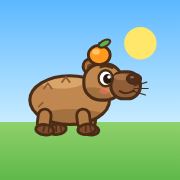
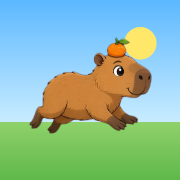
Versión 0.4: personajes con ilustraciones nuevas (capibara, gallina y gallo), íconos con el nuevo capibara y pradera más llena en vertical

Changed region(s): [[0.1389, 0.1944, 0.8611, 0.7778]]

diff --git a/game.js b/game.js
@@ -1,8 +1,12 @@
 // Capi Corre — juego de carreras infinito con un capibara
 (function(){
 'use strict';
-const VERSION='0.3';
-const HERO_S=1.18;
+const VERSION='0.4';
+const HERO_S=1;
+// sprites ilustrados (px por unidad de juego)
+const SPR={},SPR_PX={capi:3.4,gallina:4.3,gallo:4.1};
+['capi_run1','capi_run2','capi_duck','capi_hurt','gallina_run','gallina_flap','gallo_run','gallo_flap'].forEach(n=>{const i=new Image();i.onload=()=>{SPR[n]=i;if(window.__onSpr)window.__onSpr();};i.src='img/'+n+'.png?v=6';});
+function sprDim(n,id){const i=SPR[n],k=SPR_PX[id];return i?{w:i.width/k,h:i.height/k}:{w:90,h:75};}
 const $=id=>document.getElementById(id);
 const cv=$('c'),ctx=cv.getContext('2d');
 const LS={get(k,d){try{const v=localStorage.getItem('capi_'+k);return v===null?d:JSON.parse(v)}catch(e){return d}},set(k,v){try{localStorage.setItem('capi_'+k,JSON.stringify(v))}catch(e){}}};
@@ -21,7 +25,7 @@ function resize(){
  cv.width=Math.round(W*dpr);cv.height=Math.round(H*dpr);
  S=H/360; if(W/S<560) S=W/560;
  VW=W/S;VH=H/S;GY=VH-62;
- if(H>W){S=W/440;VW=W/S;VH=H/S;GY=Math.round(VH*0.62);}
+ if(H>W){S=W/440;VW=W/S;VH=H/S;GY=Math.round(VH*0.70);}
  checkRotate();
 }
 addEventListener('resize',resize);
@@ -125,6 +129,7 @@ $('resumeBtn').onclick=()=>{sfx.click();state='play';show(null);last=performance
 $('pauseBtn').onclick=e=>{e.stopPropagation();pause()};
 $('shopBtn').onclick=()=>{audio();sfx.click();buildShop();show('shop')};
 $('backBtn').onclick=()=>{sfx.click();refreshTitle();show('title')};
+window.__onSpr=()=>{if(!$('shop').classList.contains('hidden'))buildShop();};
 function buildShop(){
  $('sCoins').textContent=save.coins;
  const box=$('chars');box.innerHTML='';
@@ -141,7 +146,7 @@ function buildShop(){
    if(b.disabled)b.textContent='🪙 '+c.price+' (faltan '+(c.price-save.coins)+')';
    b.onclick=()=>{if(save.coins>=c.price){save.coins-=c.price;save.owned.push(c.id);save.sel=c.id;persist();sfx.record();buildShop();}};}
   d.appendChild(b);box.appendChild(d);
-  const g=pc.getContext('2d');g.scale(2,2);g.translate(c.id==='capi'?48:55,76);const k=c.id==='capi'?1.15:1.05;g.scale(k,k);
+  const g=pc.getContext('2d');g.scale(2,2);g.translate(55,78);const k=c.id==='capi'?0.98:1.04;g.scale(k,k);
   drawHero(g,c.id,{y:0,vy:0,ground:true,duck:false,squash:0,anim:0.3,orangeY:0,flapT:0,glide:false,rot:0});
   if(!owned){g.setTransform(1,0,0,1,0,0);g.fillStyle='rgba(255,255,255,.55)';g.fillRect(0,0,220,160);g.font='60px sans-serif';g.textAlign='center';g.fillText('🔒',110,105);}
  });
@@ -187,12 +192,15 @@ function puff(x,y,n,col){for(let i=0;i<n;i++)parts.push({x,y,vx:R(-90,30),vy:R(-
 
 // ---------- actualización ----------
 function hb(){const b=hb0(),k=HERO_S;return{x:p.x+(b.x-p.x)*k,y:GY+p.y+(b.y-GY-p.y)*k,w:b.w*k,h:b.h*k};}
-function hb0(){ // caja de choque del jugador (sin escala)
- const ch=save.sel;
- if(p.duck&&p.ground)return ch==='capi'?{x:p.x-30,y:GY+p.y-26,w:68,h:24}:ch==='gallo'?{x:p.x-14,y:GY+p.y-36,w:32,h:34}:{x:p.x-14,y:GY+p.y-26,w:32,h:24};
- if(ch==='gallina')return{x:p.x-14,y:GY+p.y-42,w:30,h:40};
- if(ch==='gallo')return{x:p.x-14,y:GY+p.y-52,w:34,h:50};
- return{x:p.x-30,y:GY+p.y-44,w:66,h:40};
+function hb0(){ // caja de choque ajustada a cada sprite
+ const ch=save.sel,X=p.x,Y=GY+p.y;
+ if(ch==='capi'){
+  if(p.duck&&p.ground){const d=sprDim('capi_duck','capi');return{x:X-d.w*0.4,y:Y-d.h*0.62,w:d.w*0.8,h:d.h*0.6};}
+  const d=sprDim('capi_run1','capi');return{x:X-d.w*0.36,y:Y-d.h*0.76,w:d.w*0.74,h:d.h*0.72};
+ }
+ const d=sprDim(ch+'_run',ch);
+ if(p.duck&&p.ground)return{x:X-d.w*0.28,y:Y-d.h*0.5,w:d.w*0.56,h:d.h*0.48};
+ return{x:X-d.w*0.28,y:Y-d.h*0.84,w:d.w*0.56,h:d.h*0.8};
 }
 function ov(a,b){return a.x<b.x+b.w&&a.x+a.w>b.x&&a.y<b.y+b.h&&a.y+a.h>b.y}
 function update(dt){
@@ -326,9 +334,9 @@ function drawBG(){
  line(ctx,[0,GY-6,VW,GY-6],'#3f7a2a',2.4);
  ctx.fillStyle='#9ad86a';ctx.fillRect(0,GY,VW,5);
  // flores y pasto
- const rows=Math.min(6,Math.floor((VH-GY)/20));
- for(let r=0;r<rows;r++){const sp=70+r*9,o=(dist*(1+r*0.08)+r*37)%sp,y=GY+14+r*18;
-  for(let x=-o;x<VW+sp;x+=sp){const k=Math.floor((x+o+dist)/sp)+r;
+ const rows=Math.min(18,Math.floor((VH-GY-8)/18));
+ for(let r=0;r<rows;r++){const sp=70+r*9,o=(dist*(1+r*0.08)+r*37)%sp,yb=GY+14+r*18;
+  for(let x0=-o;x0<VW+sp;x0+=sp){const k=Math.floor((x0+o+dist*(1+r*0.08))/sp)*7+r*13;const x=x0+((k*53)%41)-20,y=yb+((k*29)%9)-4;
    if(k%3===0){ctx.fillStyle=k%2?'#ffffff':'#ffd23a';for(let a=0;a<5;a++){ctx.beginPath();ctx.arc(x+Math.cos(a*1.257)*3.2,y+Math.sin(a*1.257)*3.2,2.4,0,6.28);ctx.fill();}
     ctx.fillStyle=k%2?'#ffc21a':'#f08a1f';ctx.beginPath();ctx.arc(x,y,1.8,0,6.28);ctx.fill();}
    else line(ctx,[x-4,y+2,x-2,y-5,x,y+2,x+3,y-6,x+5,y+2],'#3f8a2c',1.4);}
@@ -392,17 +400,29 @@ function drawCoin(c){
  if(s>0.5){ell(ctx,c.x,c.y,4.5*s,5,'#ffe27a');ctx.fillStyle='#d99a10';ctx.fillRect(c.x-1,c.y-3,2,6);}
 }
 function drawHero(g,id,st){
+ let n;
+ const fr=Math.floor((st.anim||0)/Math.PI)%2;
+ if(id==='capi'){
+  n=st.dead||st.rot?'capi_hurt':(st.duck&&st.ground)?'capi_duck':!st.ground?'capi_run2':(fr?'capi_run2':'capi_run1');
+ }else{
+  const flap=!st.ground&&(st.flapT>0||st.glide||st.vy<0)||(st.rot>0);
+  n=id+(flap||(st.ground&&!st.duck&&fr&&id==='gallo')?'_flap':'_run');
+  if(id==='gallo'&&st.ground&&!st.duck)n=fr?'gallo_flap':'gallo_run';
+ }
+ const im=SPR[n];
  g.save();
  const run=st.ground&&!st.duck;
- const bob=run?Math.abs(Math.sin(st.anim))*-2.5:0;
+ const bob=run?Math.abs(Math.sin(st.anim))*-3:0;
  g.translate(0,st.y+bob);
- if(st.rot)g.rotate(-st.rot);
+ if(st.rot&&id!=='capi')g.rotate(-st.rot);
  let sx=1,sy=1;
- if(!st.ground){sx=0.93;sy=1.08;}
- if(st.squash>0){sx=1+st.squash*0.22;sy=1-st.squash*0.2;}
- if(st.duck){sx*=1.12;sy*=0.66;}
- const HS=st.hs||1;g.scale(sx*HS,sy*HS);g.lineCap='round';g.lineJoin='round';
- if(id==='gallina')hen(g,st);else if(id==='gallo')rooster(g,st);else capy(g,st);
+ if(!st.ground){sx=0.94;sy=1.07;}
+ if(st.squash>0){sx=1+st.squash*0.18;sy=1-st.squash*0.16;}
+ if(st.duck&&id!=='capi'){sx*=1.12;sy*=0.66;}
+ if(run)g.rotate(Math.sin(st.anim*2)*0.03);
+ g.scale(sx,sy);
+ if(im){const k=SPR_PX[id],w=im.width/k,h=im.height/k;g.drawImage(im,-w*0.5,-h+2,w,h);}
+ else{g.lineCap='round';g.lineJoin='round';if(id==='gallina')hen(g,st);else if(id==='gallo')rooster(g,st);else capy(g,st);}
  g.restore();
 }
 function swing(st,i){return st.ground?Math.sin(st.anim+(i?Math.PI:0)):(i?0.7:-0.5);}
@@ -502,13 +522,14 @@ function drawHUDText(){
  ctx.globalAlpha=1;
 }
 function draw(){
+ ctx.imageSmoothingQuality='high';
  ctx.setTransform(dpr*S,0,0,dpr*S,0,0);
  const dk=drawBG();
  for(const c of coins)drawCoin(c);
  for(const o of obs)drawObs(o);
  // sombra
  const sh=Math.max(0.3,1+p.y/120);
- ell(ctx,p.x,GY+2,24*sh,4*sh,'rgba(0,0,0,.18)');
+ ell(ctx,p.x,GY+2,(save.sel==='capi'?34:22)*sh,4*sh,'rgba(0,0,0,.18)');
  ctx.save();ctx.translate(p.x,GY);drawHero(ctx,save.sel,p);ctx.restore();
  for(const q of parts){ctx.globalAlpha=Math.max(0,q.life/q.max);ell(ctx,q.x,q.y,q.r,q.r,q.c);}
  ctx.globalAlpha=1;

diff --git a/sw.js b/sw.js
@@ -1,8 +1,9 @@
 // Service worker de Capi Corre: juego sin conexión
-const V='5';
+const V='6';
 const CACHE='capi-corre-v'+V;
 const ASSETS=['./','./index.html','./style.css?v='+V,'./game.js?v='+V,'./manifest.webmanifest',
- './icons/icon-192.png','./icons/icon-512.png','./icons/icon-maskable-512.png','./icons/apple-touch-icon.png'];
+ './icons/icon-192.png','./icons/icon-512.png','./icons/icon-maskable-512.png','./icons/apple-touch-icon.png',
+ ...['capi_run1','capi_run2','capi_duck','capi_hurt','gallina_run','gallina_flap','gallo_run','gallo_flap'].map(n=>'./img/'+n+'.png?v='+V)];
 self.addEventListener('install',e=>{e.waitUntil(caches.open(CACHE).then(c=>c.addAll(ASSETS)).then(()=>self.skipWaiting()));});
 self.addEventListener('activate',e=>{e.waitUntil(caches.keys().then(ks=>Promise.all(ks.filter(k=>k.startsWith('capi-corre-')&&k!==CACHE).map(k=>caches.delete(k)))).then(()=>self.clients.claim()));});
 self.addEventListener('fetch',e=>{

diff --git a/index.html b/index.html
@@ -12,7 +12,7 @@
 <meta name="apple-mobile-web-app-status-bar-style" content="black-translucent">
 <meta name="apple-mobile-web-app-title" content="Capi Corre">
 <title>Capi Corre</title>
-<link rel="stylesheet" href="style.css?v=5">
+<link rel="stylesheet" href="style.css?v=6">
 </head>
 <body>
 <canvas id="c"></canvas>
@@ -62,6 +62,6 @@
   <p class="sub">Capi corre mejor en horizontal</p>
   <button id="portraitBtn" class="mid">Jugar en vertical</button>
 </div>
-<script src="game.js?v=5"></script>
+<script src="game.js?v=6"></script>
 </body>
 </html>
